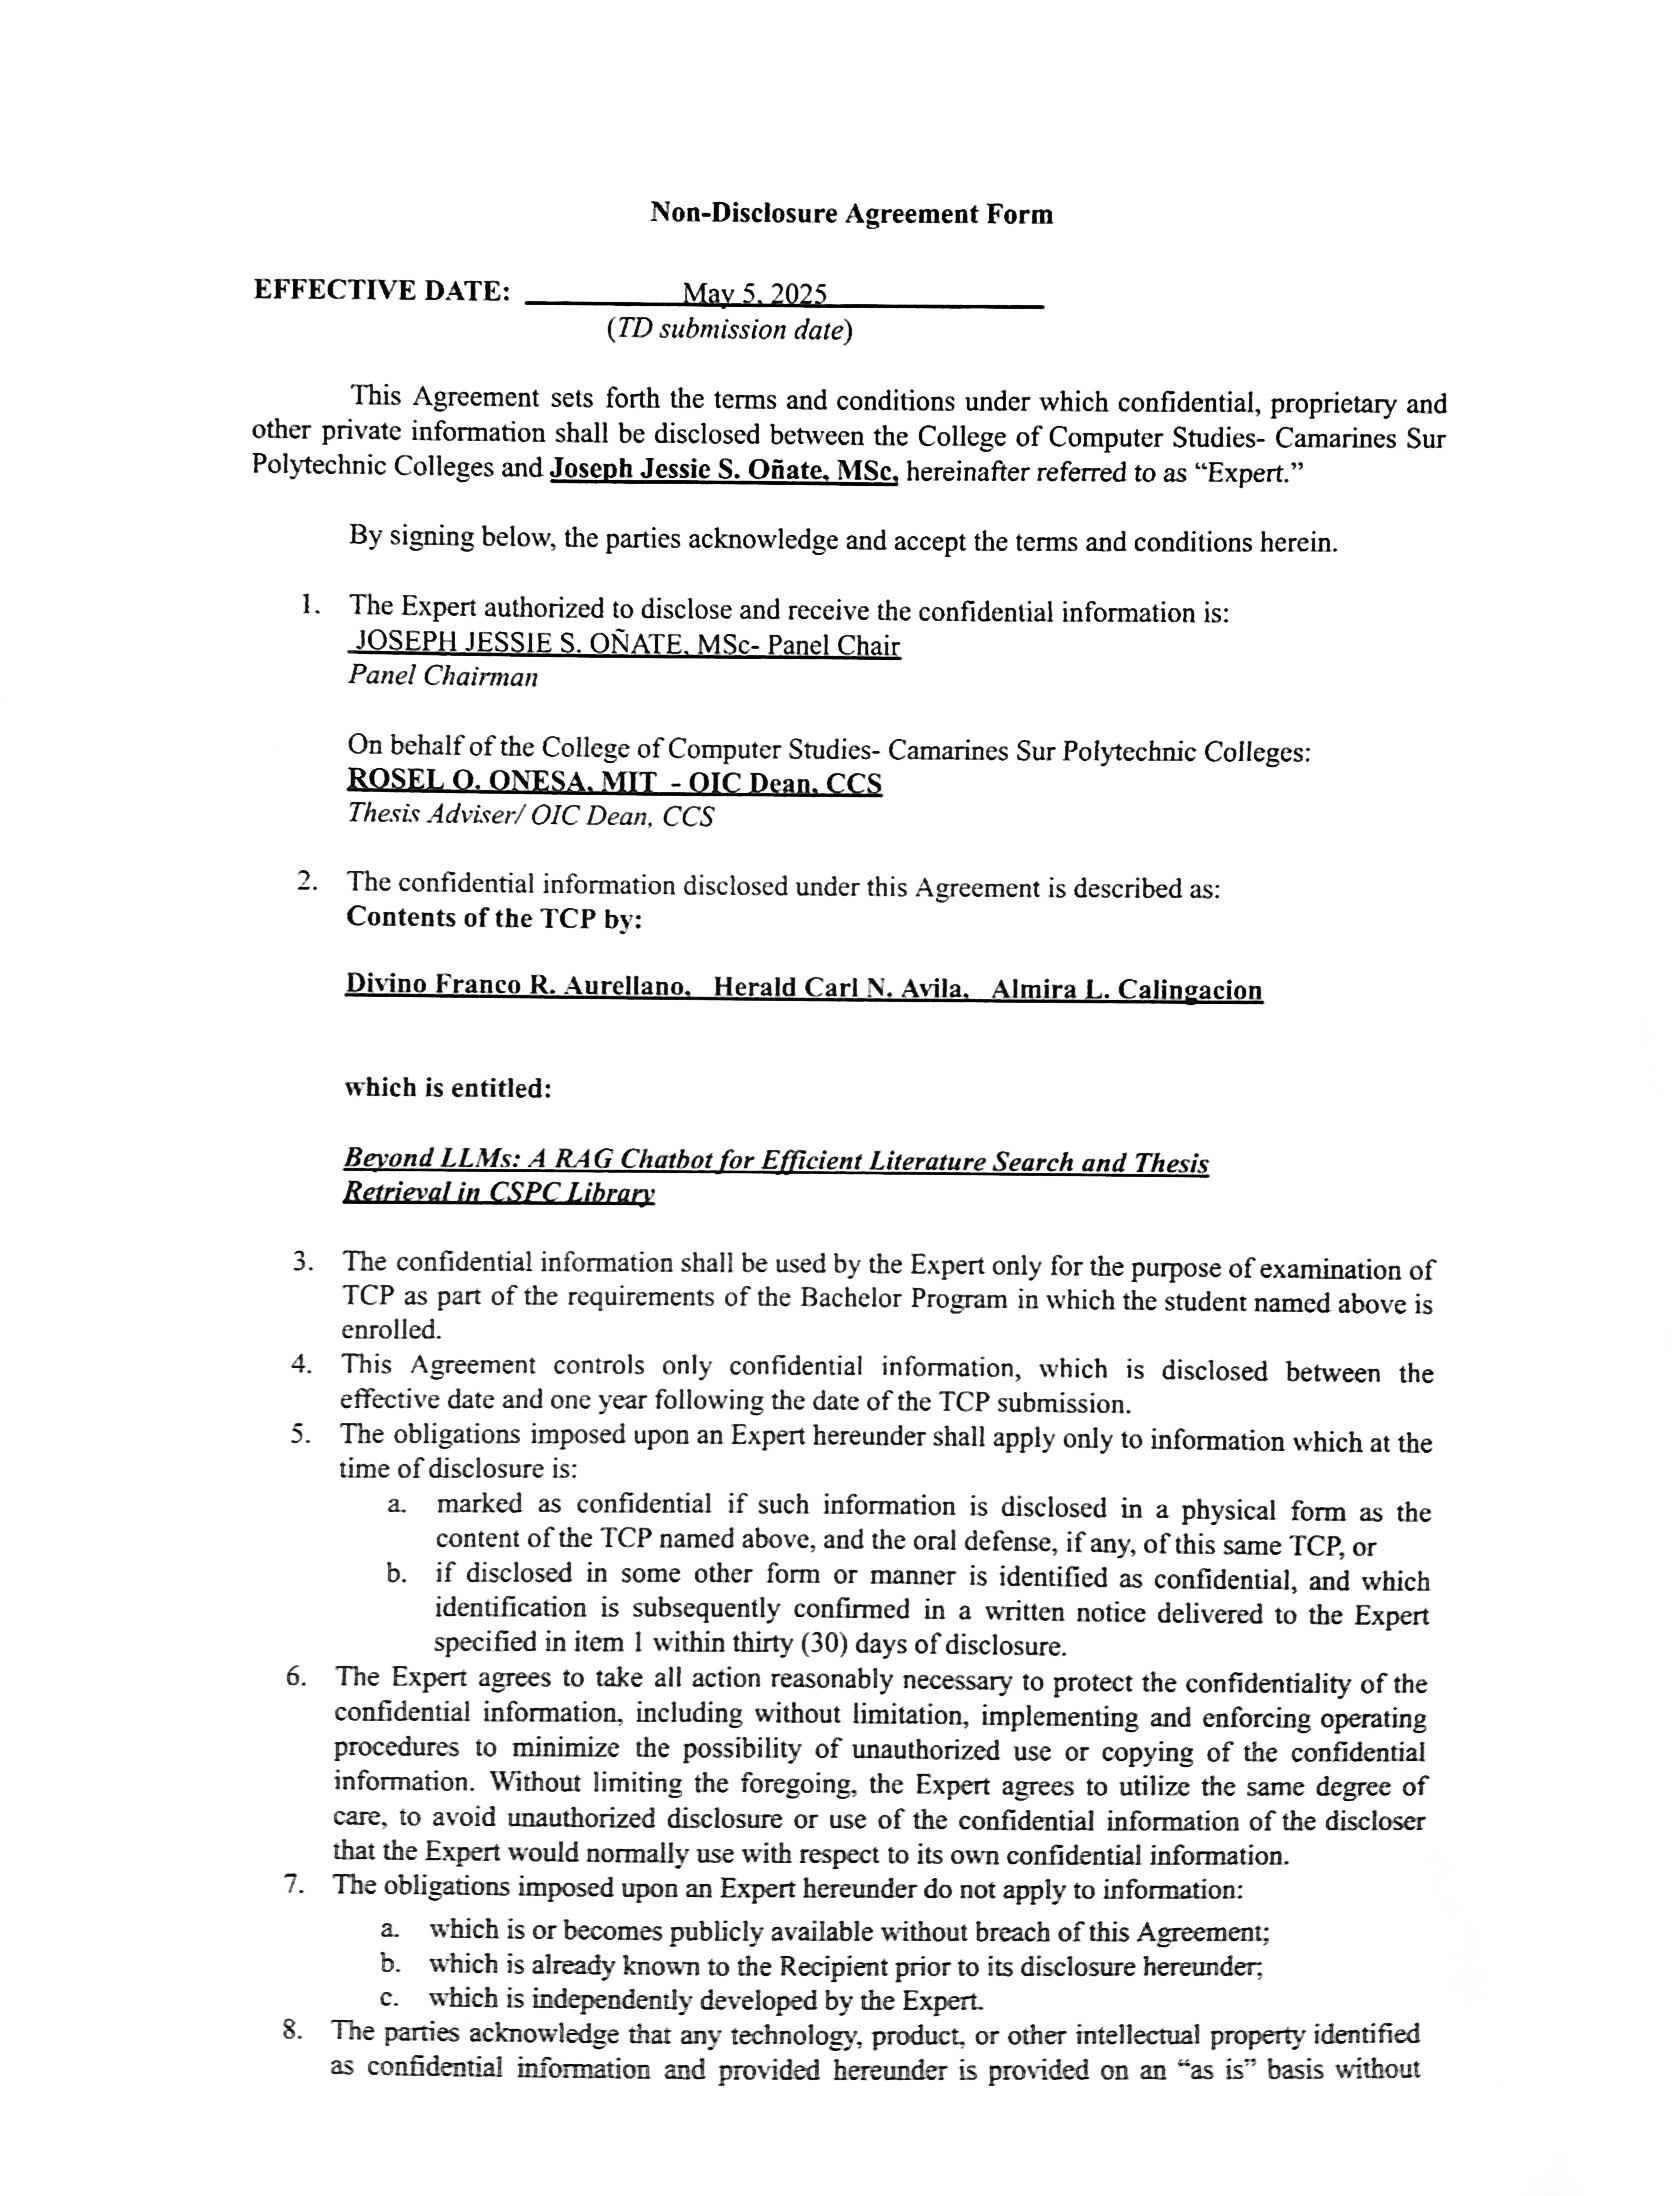
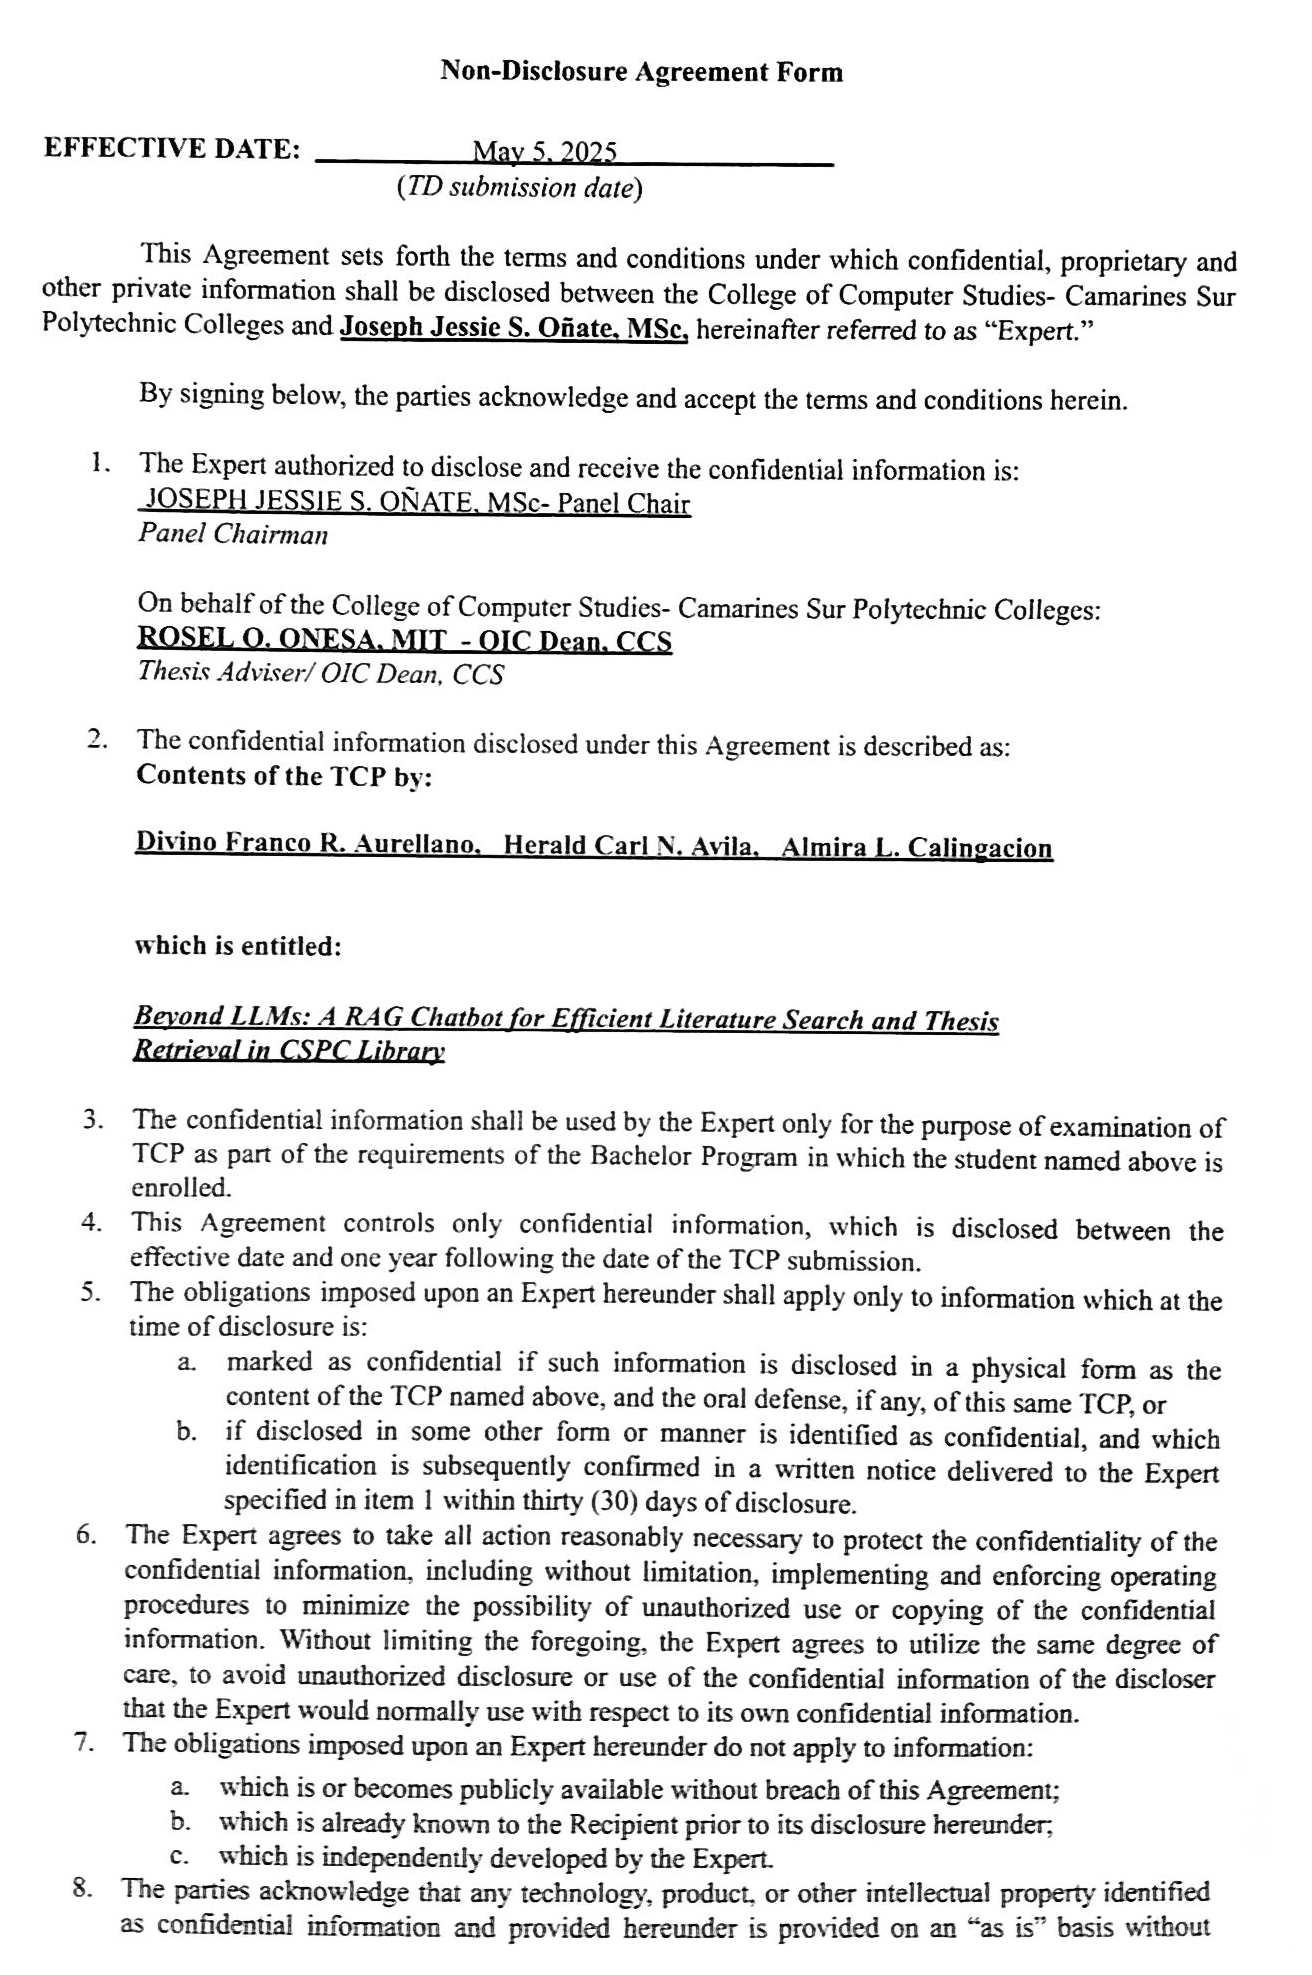
add major fix to appencdices formatting cropping the imported images

Changed region(s): [[0.0312, 0.0309, 0.9375, 0.9884], [0.0312, 0.0618, 0.2188, 0.0927], [0.7812, 0.3089, 0.8125, 0.3397]]

diff --git a/chapters/appendix.tex b/chapters/appendix.tex
@@ -162,25 +162,21 @@ This section provides a step-by-step guide on how to use the RAG Chatbot system 
 \end{enumerate}
 
 \chapter{Data Collection Consent Form}
-\vspace{-3em}
+
     \begin{figure}[H]
         \centering
-        \includegraphics[width=1\textwidth]{appendices/client.jpg}
+        \includegraphics[width=0.87\textwidth]{appendices/client.jpg}
     \end{figure}
+
 
 \chapter{Acknowledgment Receipt}
-\vspace{-3em}
     \begin{figure}[H]
         \centering
-        \includegraphics[width=1\textwidth]{appendices/receipt.jpg}
+        \includegraphics[width=0.85\textwidth]{appendices/receipt.jpg}
     \end{figure}
-
-
-
 
 
 \chapter{Survey Questionnaire}
-\vspace*{-2em}
 \small
 \textbf{Adal - CSPC Library Chatbot Evaluation Survey}
 
@@ -188,7 +184,7 @@ A survey was conducted using Google Forms to evaluate Adal \url{https://forms.gl
 
 This survey aims to evaluate Adal's accuracy, relevance, and usability in delivering research-related information. Your feedback will help improve the chatbot's performance and ensure it effectively supports academic research needs.
 
-\vspace*{2em}
+\bigbreak
 \textbf{Adal Chatbot Use Instructions}
 \begin{enumerate}
     \item Please use the chatbot through this link: \url{https://adall.azurewebsites.net/login}
@@ -317,7 +313,6 @@ Your response has been successfully submitted. We sincerely appreciate you contr
 
 
 \chapter{Survey Response Tally}
-\vspace*{-3em}
 
 \begin{table}[H]
 \centering
@@ -434,14 +429,12 @@ Your response has been successfully submitted. We sincerely appreciate you contr
 
 
 
-
-
 \chapter{Non-Disclosure Agreement Form}
-\vspace{-5em}
+
 \centering
     \begin{figure}[H]
         \centering
-        \includegraphics[width=1\textwidth]{appendices/nda/nda_1_tif1.jpg}
+        \includegraphics[width=0.78\textwidth]{appendices/nda/nda_1_tif1.jpg}
     \end{figure}
     \begin{figure}[H]
         \centering
@@ -473,15 +466,17 @@ Your response has been successfully submitted. We sincerely appreciate you contr
 %         \includegraphics[width=0.90\textwidth]{appendices/affidavit.jpg}
 %     \end{figure}
 
-% \chapter{Project Team Assignment Form}
-%     \begin{figure}[ht]
-%         \centering
-%         \includegraphics[width=0.85\textwidth]{figures/prjTA.jpg}
-%     \end{figure}
+
+\chapter{Project Team Assignment Form}
+    \begin{figure}[ht]
+        \centering
+        \includegraphics[width=0.85\textwidth]{figures/prjTA.jpg}
+    \end{figure}
 
 
 
 \chapter{Role Acceptance Form}
+
     \begin{figure}[H]
         \centering
     	\includegraphics[width=1\textwidth]{appendices/adviserRole.jpg}
@@ -499,19 +494,18 @@ Your response has been successfully submitted. We sincerely appreciate you contr
 
 
 \chapter{Thesis/Capstone Title Approval Form}
-\centering
+
     \begin{figure}[H]
         \centering
         \includegraphics[width=1\textwidth]{appendices/prjform.jpg}
     \end{figure}
 
 
-
-
 \chapter{Thesis/Capstone Hearing Form (TD, POD, FOD)}
+
     \begin{figure}[H]
         \centering
-        \includegraphics[width=1\textwidth]{appendices/hearF/TD.jpg}
+        \includegraphics[width=0.90\textwidth]{appendices/hearF/TD.jpg}
     \end{figure}
 
     \begin{figure}[H]
@@ -527,7 +521,7 @@ Your response has been successfully submitted. We sincerely appreciate you contr
 \chapter{Panel RSC (TD, POD, FOD)}
     \begin{figure}[H]
         \centering
-        \includegraphics[width=1\textwidth]{appendices/rsc1td.jpg}
+        \includegraphics[width=0.95\textwidth]{appendices/rsc1td.jpg}
     \end{figure}
     
     \begin{figure}[H]
@@ -626,23 +620,14 @@ Your response has been successfully submitted. We sincerely appreciate you contr
         \includegraphics[width=1\textwidth]{appendices/clf/clfG.jpg}
     \end{figure}
 
+    \begin{figure}[H]
+        \centering
+        \includegraphics[width=1\textwidth]{appendices/clf/lang_cert.jpg}
+    \end{figure}
+
+% \chapter{Language Editing Certification}
 
 
-\chapter{Language Editing Certification}
-\centering
-
-This is to certify that the undersigned has reviewed and went through all the pages of the Bachelor of Science in Computer Science thesis manuscript titled \\
-
-\textbf{"BEYOND LLMS: A RAG CHATBOT FOR EFFICIENT LITERATURE SEARCH AND THESIS RETRIEVAL IN CSPC LIBRARY"} \\
-
-
-of \textbf{Aurellano, Divino Franco R.}, \textbf{Avila, Herald Carl N.}, \textbf{Calingacion, Almira L.}, as against the set of structural rules that govern research writing in accord with the composition of sentences, phrases, and words in the English language. 
- \newline \newline \newline \\
-
-\noindent \textbf{MA. ALLAINE C. AGNA, LPT} \\
-\textit{Grammarian} \\
-
-Date:\_\_\_\_\_\_\_\_\_\_\_\_\_\_\_\_\_\_\_\_\_\_\_
 
 
 \chapter{Secretary's Certification}

diff --git a/vita.tex b/vita.tex
@@ -8,15 +8,15 @@
 
 \begin{figure}[H]
     \centering
-    \includegraphics[width=0.9\textwidth]{appendices/vitae/francoResume.pdf}   
+    \includegraphics[width=0.89\textwidth]{appendices/vitae/francoResume.pdf}   
 \end{figure}
 
 \begin{figure}[H]
     \centering
-    \includegraphics[width=0.9\textwidth]{appendices/vitae/heraldResume.pdf}
+    \includegraphics[width=0.95\textwidth]{appendices/vitae/heraldResume.pdf}
 \end{figure}
 
 \begin{figure}[H]
     \centering
-    \includegraphics[width=0.9\textwidth]{appendices/vitae/almiraCalingacion.pdf}
+    \includegraphics[width=0.95\textwidth]{appendices/vitae/almiraCalingacion.pdf}
 \end{figure}
